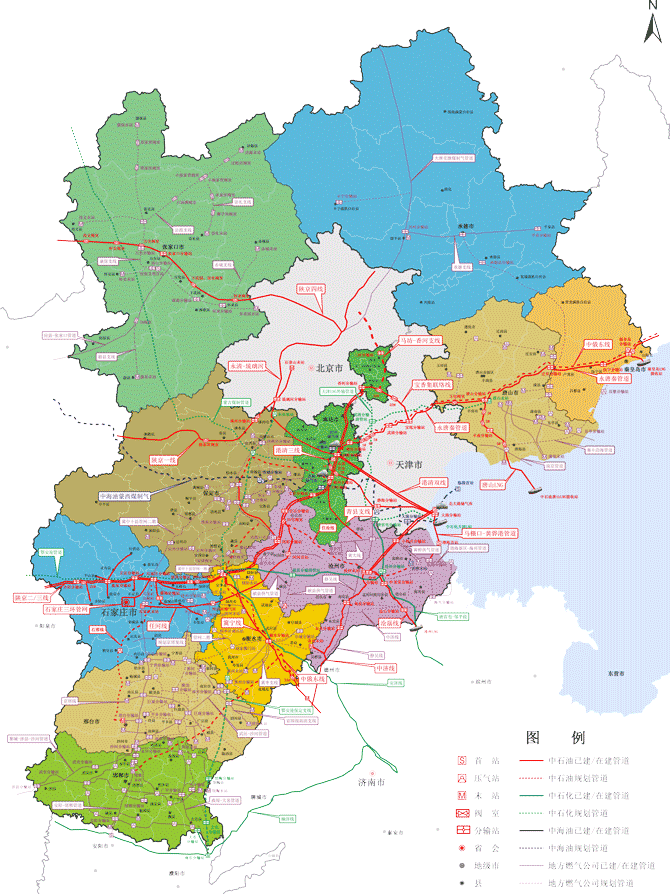
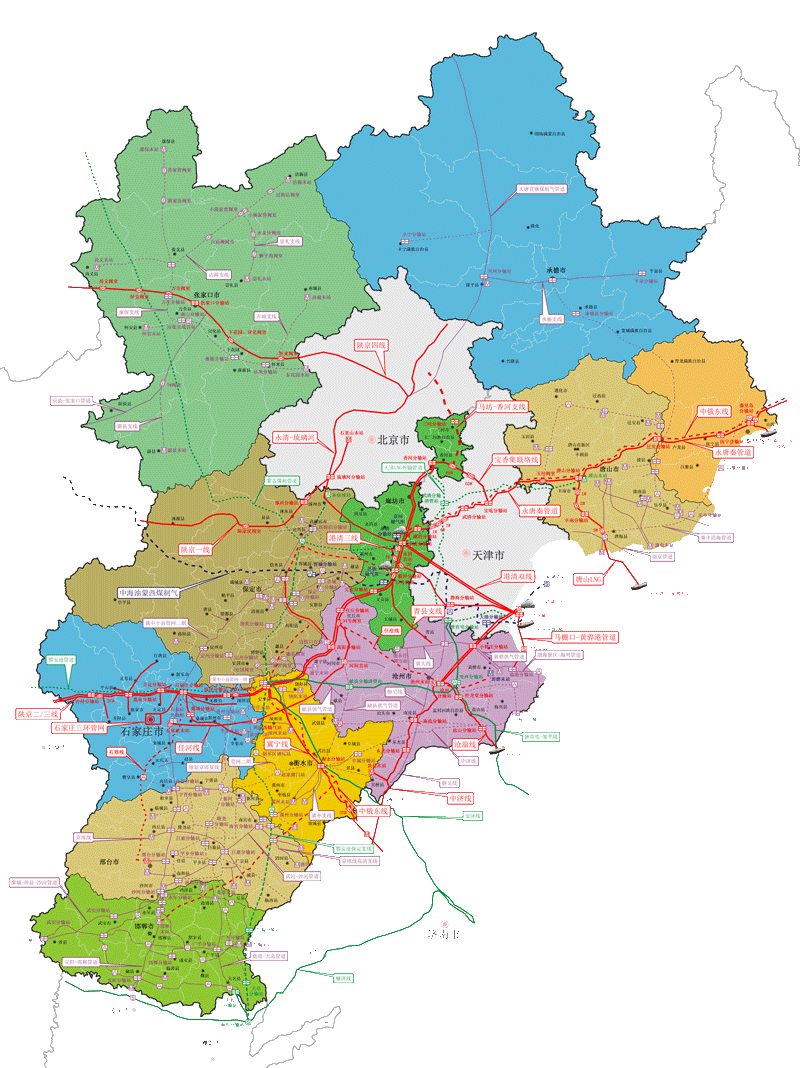
更改了管线图

diff --git a/src/views/guanxian/index.vue b/src/views/guanxian/index.vue
@@ -8,7 +8,7 @@
           <span class="skipBtn" @click="reset">最初大小</span>
         </div>
         <h1>河北省天然气长输管道走向示意图</h1>
-        <canvas ref="guanxiantuRef" width="736" height="981" />
+        <canvas ref="guanxiantuRef" width="1888" height="981" />
 
         <div ref="tooltipRef" class="tooltip">
           <div class="tooltip-inner">
@@ -71,7 +71,7 @@ export default {
       img: null,
       imgX: 0,
       imgY: 0,
-      imgScale: 0.2,
+      imgScale: 0.3,
       posSize: 40,
       tooltip: {
         title: 'jiji',
@@ -104,7 +104,7 @@ export default {
     reset() {
       this.imgX = 0
       this.imgY = 0
-      this.imgScale = 0.2
+      this.imgScale = 0.3
       this.clear()
       this.drawImage()
     },
@@ -137,7 +137,7 @@ export default {
           this.imgY = this.imgY * 2 - pos.y
           this.refresh() // 重新绘制图片
         } else {
-          if (this.imgScale >= 0.4) {
+          if (this.imgScale >= 0.6) {
             this.imgScale /= 2
             this.imgX = this.imgX * 0.5 + pos.x * 0.5
             this.imgY = this.imgY * 0.5 + pos.y * 0.5
@@ -195,7 +195,7 @@ export default {
         x: x - box.left - (box.width - this.canvas.width) / 2,
         y: y - box.top - (box.height - this.canvas.height) / 2
       }
-    },
+    }
     // getEventPosition(ev) {
     //   var x, y
     //   if (ev.layerX || ev.layerX == 0) {
@@ -280,7 +280,7 @@ table thead tr {
       }
 
       canvas {
-        margin-top: 15px;
+        margin-top: 10px;
         // background-color: pink;
         margin-bottom: 5px;
       }

diff --git a/src/views/login/index.vue b/src/views/login/index.vue
@@ -89,7 +89,7 @@ export default {
 }
 </script>
 
-<style lang="scss" scoped>
+<style lang="scss">
 /* 修复input 背景不协调 和光标变色 */
 /* Detail see https://github.com/PanJiaChen/vue-admin-template/pull/927 */
 
